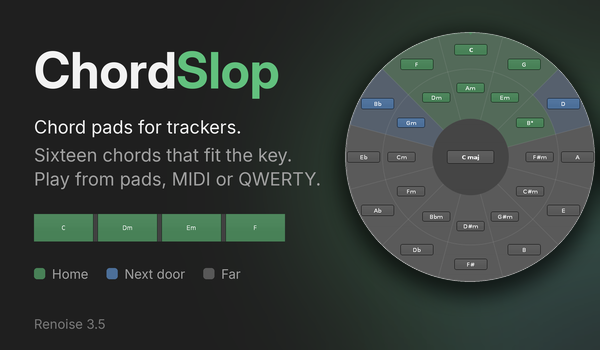
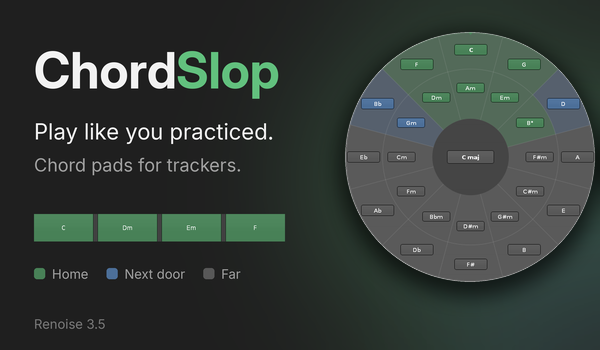
Cover: a shorter tagline, "Play like you practiced."
The three lines under the name become two: the hook in white, and
"Chord pads for trackers." in grey.

Changed region(s): [[0.06, 0.3429, 0.54, 0.5429]]

diff --git a/scripts/cover/compose.py b/scripts/cover/compose.py
@@ -162,10 +162,8 @@ def cover(src, circle, pads, colors):
     draw = ImageDraw.Draw(img)
     x0 = 34 * SS
     two_tone(draw, (x0, 40 * SS), 50, "Chord", "Slop")
-    tag = font("regular", 18)
-    draw.text((x0, 116 * SS), "Chord pads for trackers.", font=tag, fill=WHITE)
-    draw.text((x0, 144 * SS), "Sixteen chords that fit the key.", font=tag, fill=GREY)
-    draw.text((x0, 168 * SS), "Play from pads, MIDI or QWERTY.", font=tag, fill=GREY)
+    draw.text((x0, 118 * SS), "Play like you practiced.", font=font("regular", 22), fill=WHITE)
+    draw.text((x0, 154 * SS), "Chord pads for trackers.", font=font("regular", 18), fill=GREY)
 
     # the first pad row from the capture, at half size
     gx, gy, gw, gh = pads
